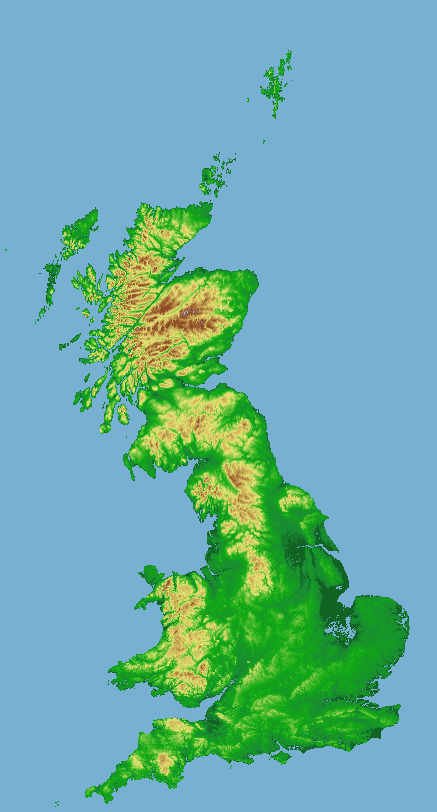
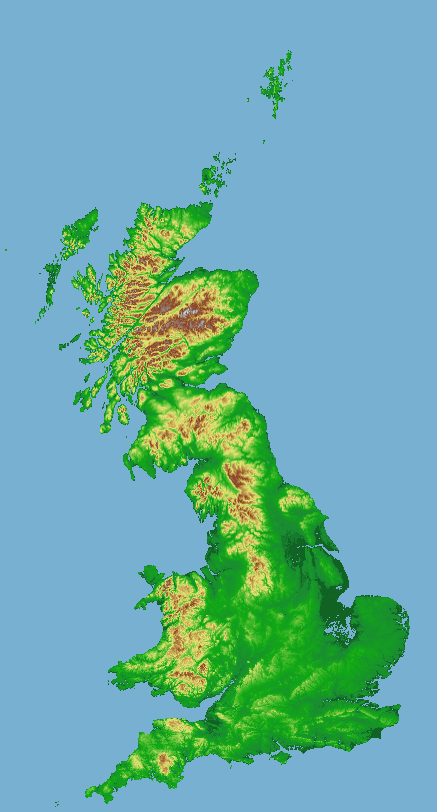
Nice colours for 1000,2000,3000ft

diff --git a/nevis/_plot.py b/nevis/_plot.py
@@ -14,7 +14,7 @@ import matplotlib.colors
 import matplotlib.pyplot as plt
 
 
-def plot(arr, downsampling=1):
+def plot(arr, downsampling=27):
     """
     Creates a plot of the 2D elevation data in ``arr``, downsampled with a
     factor ``downsampling``.
@@ -28,14 +28,13 @@ def plot(arr, downsampling=1):
     # Get extreme points
     vmin = np.min(arr)
     vmax = np.max(arr)
-    print(f'Heighest point: {vmax}')
+    print(f'Highest point: {vmax}')
 
-    # Downsample (d=27 gives me a map that fits on my screen at 100% zoom).
-    d = 27
-    if d > 1:
-        print(f'Downsampling with factor {d}')
-        nx, ny = nx // d, ny // d
-        arr = arr[::d, ::d]
+    # Downsample (27 gives me a map that fits on my screen at 100% zoom).
+    if downsampling > 1:
+        print(f'Downsampling with factor {downsampling}')
+        nx, ny = nx // downsampling, ny // downsampling
+        arr = arr[::downsampling, ::downsampling]
 
     # Plot
     print('Plotting...')
@@ -51,9 +50,9 @@ def plot(arr, downsampling=1):
             (f(-3), '#0f561e'),         # Dark green
             (f(10), '#1a8b33'),         # Nicer green
             (f(100), '#11aa15'),        # Glorious green
-            (f(300), '#e8e374'),        # Yellow
-            (f(800), '#8a4121'),        # Brownish
-            (f(1100), '#999999'),       # Grey
+            (f(300), '#e8e374'),        # Yellow at ~1000ft
+            (f(610), '#8a4121'),        # Brownish at ~2000ft
+            (f(915), '#999999'),       # Grey at ~3000ft
             (1, 'white'),
         ])
 
